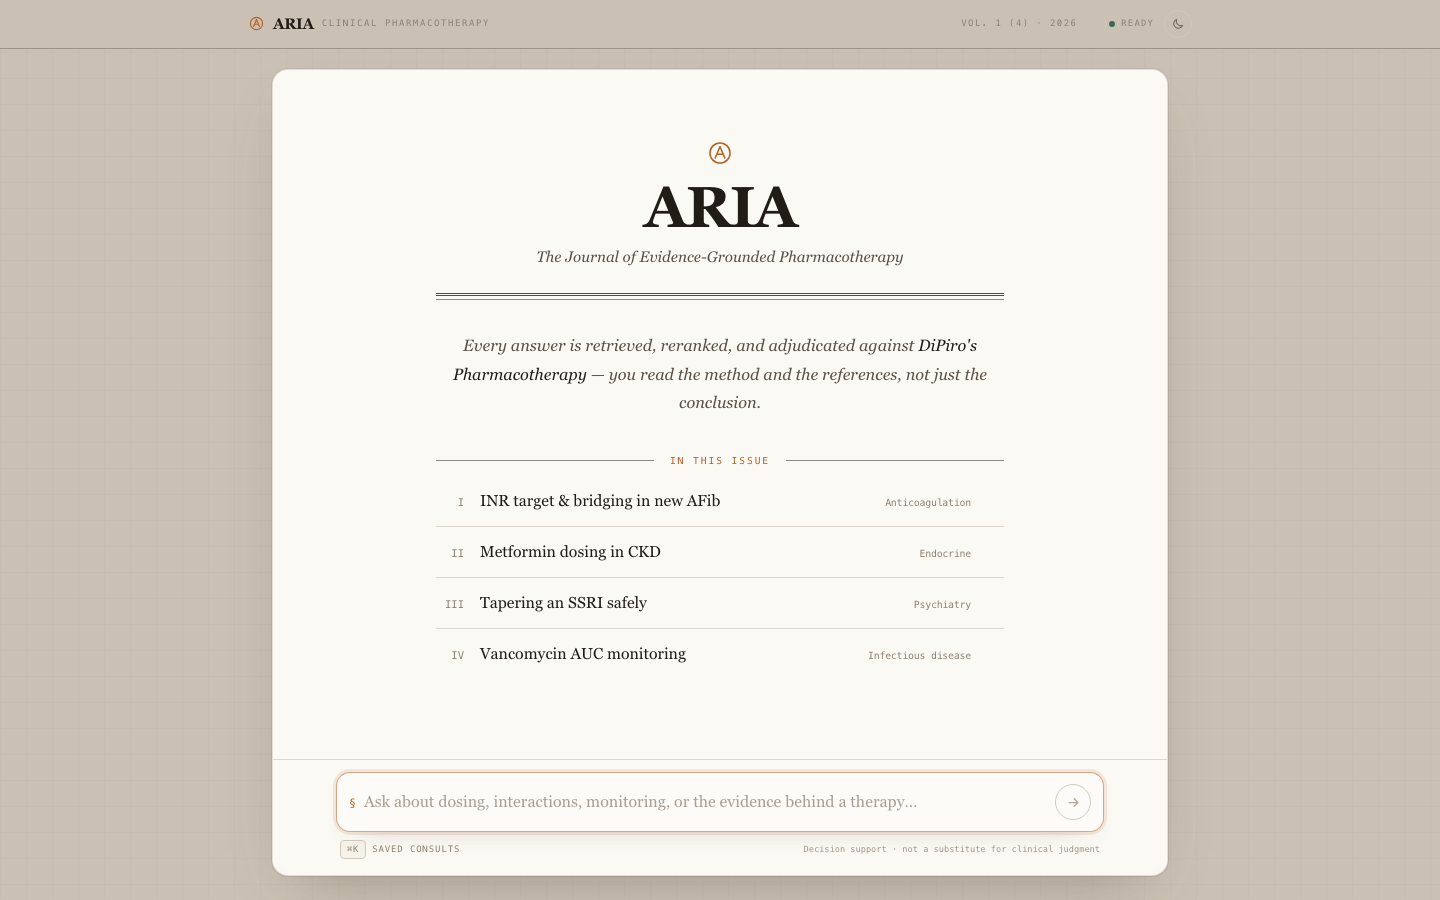
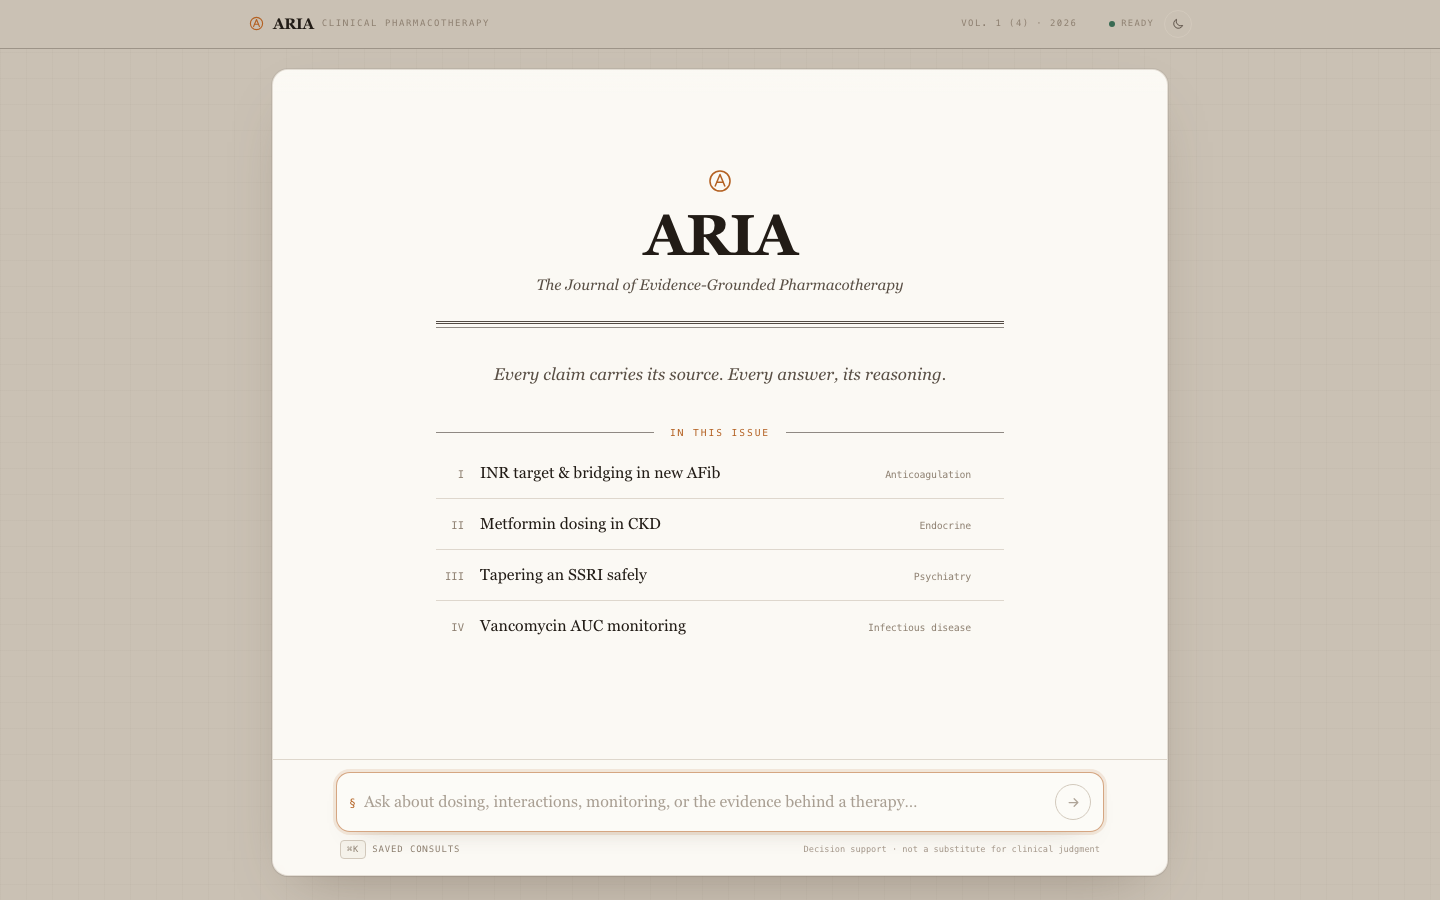
Replace the landing epigraph with a statement of principle
The opening line advertised the machinery — "retrieved, reranked, and
adjudicated against DiPiro's Pharmacotherapy" — naming the corpus and
reciting the pipeline before the reader has asked anything. It reads as a
feature list, not as a journal.

It now states the standing principle instead:

  Every claim carries its source. Every answer, its reasoning.

The corpus and the pipeline still announce themselves per answer, in the
source rail and the instrument row, where a reader can actually check them
rather than take them on trust. Shorter, so the phone no longer has to
truncate the sentence.

Changed region(s): [[0.3125, 0.1867, 0.6875, 0.4667], [0.3125, 0.4978, 0.5, 0.7467], [0.5938, 0.4978, 0.6875, 0.7156]]

diff --git a/web/src/components/EmptyState.tsx b/web/src/components/EmptyState.tsx
@@ -60,20 +60,16 @@ export function EmptyState({ onPick }: { onPick: (query: string) => void }) {
         </motion.div>
       </header>
 
-      {/* Epigraph — the closing clause is a luxury a phone can't afford. */}
+      {/* Epigraph — the journal's standing principle, not a feature list. The
+          corpus and the pipeline announce themselves per answer, in the source
+          rail and the instrument row, where a reader can actually check them. */}
       <motion.p
         initial={{ opacity: 0, y: 10 }}
         animate={{ opacity: 1, y: 0 }}
         transition={{ duration: 0.7, delay: 0.3, ease }}
-        className="mt-5 text-center font-prose text-[0.94rem] italic leading-[1.7] text-ink-soft sm:mt-8 sm:text-[1.02rem] sm:leading-[1.75]"
+        className="mt-5 text-balance text-center font-prose text-[0.98rem] italic leading-[1.7] text-ink-soft sm:mt-8 sm:text-[1.06rem] sm:leading-[1.75]"
       >
-        Every answer is retrieved, reranked, and adjudicated against{' '}
-        <em className="text-ink">DiPiro&apos;s Pharmacotherapy</em>
-        <span className="hidden sm:inline">
-          {' '}
-          — you read the method and the references, not just the conclusion
-        </span>
-        .
+        Every claim carries its source. Every answer, its reasoning.
       </motion.p>
 
       {/* Saved consults */}
